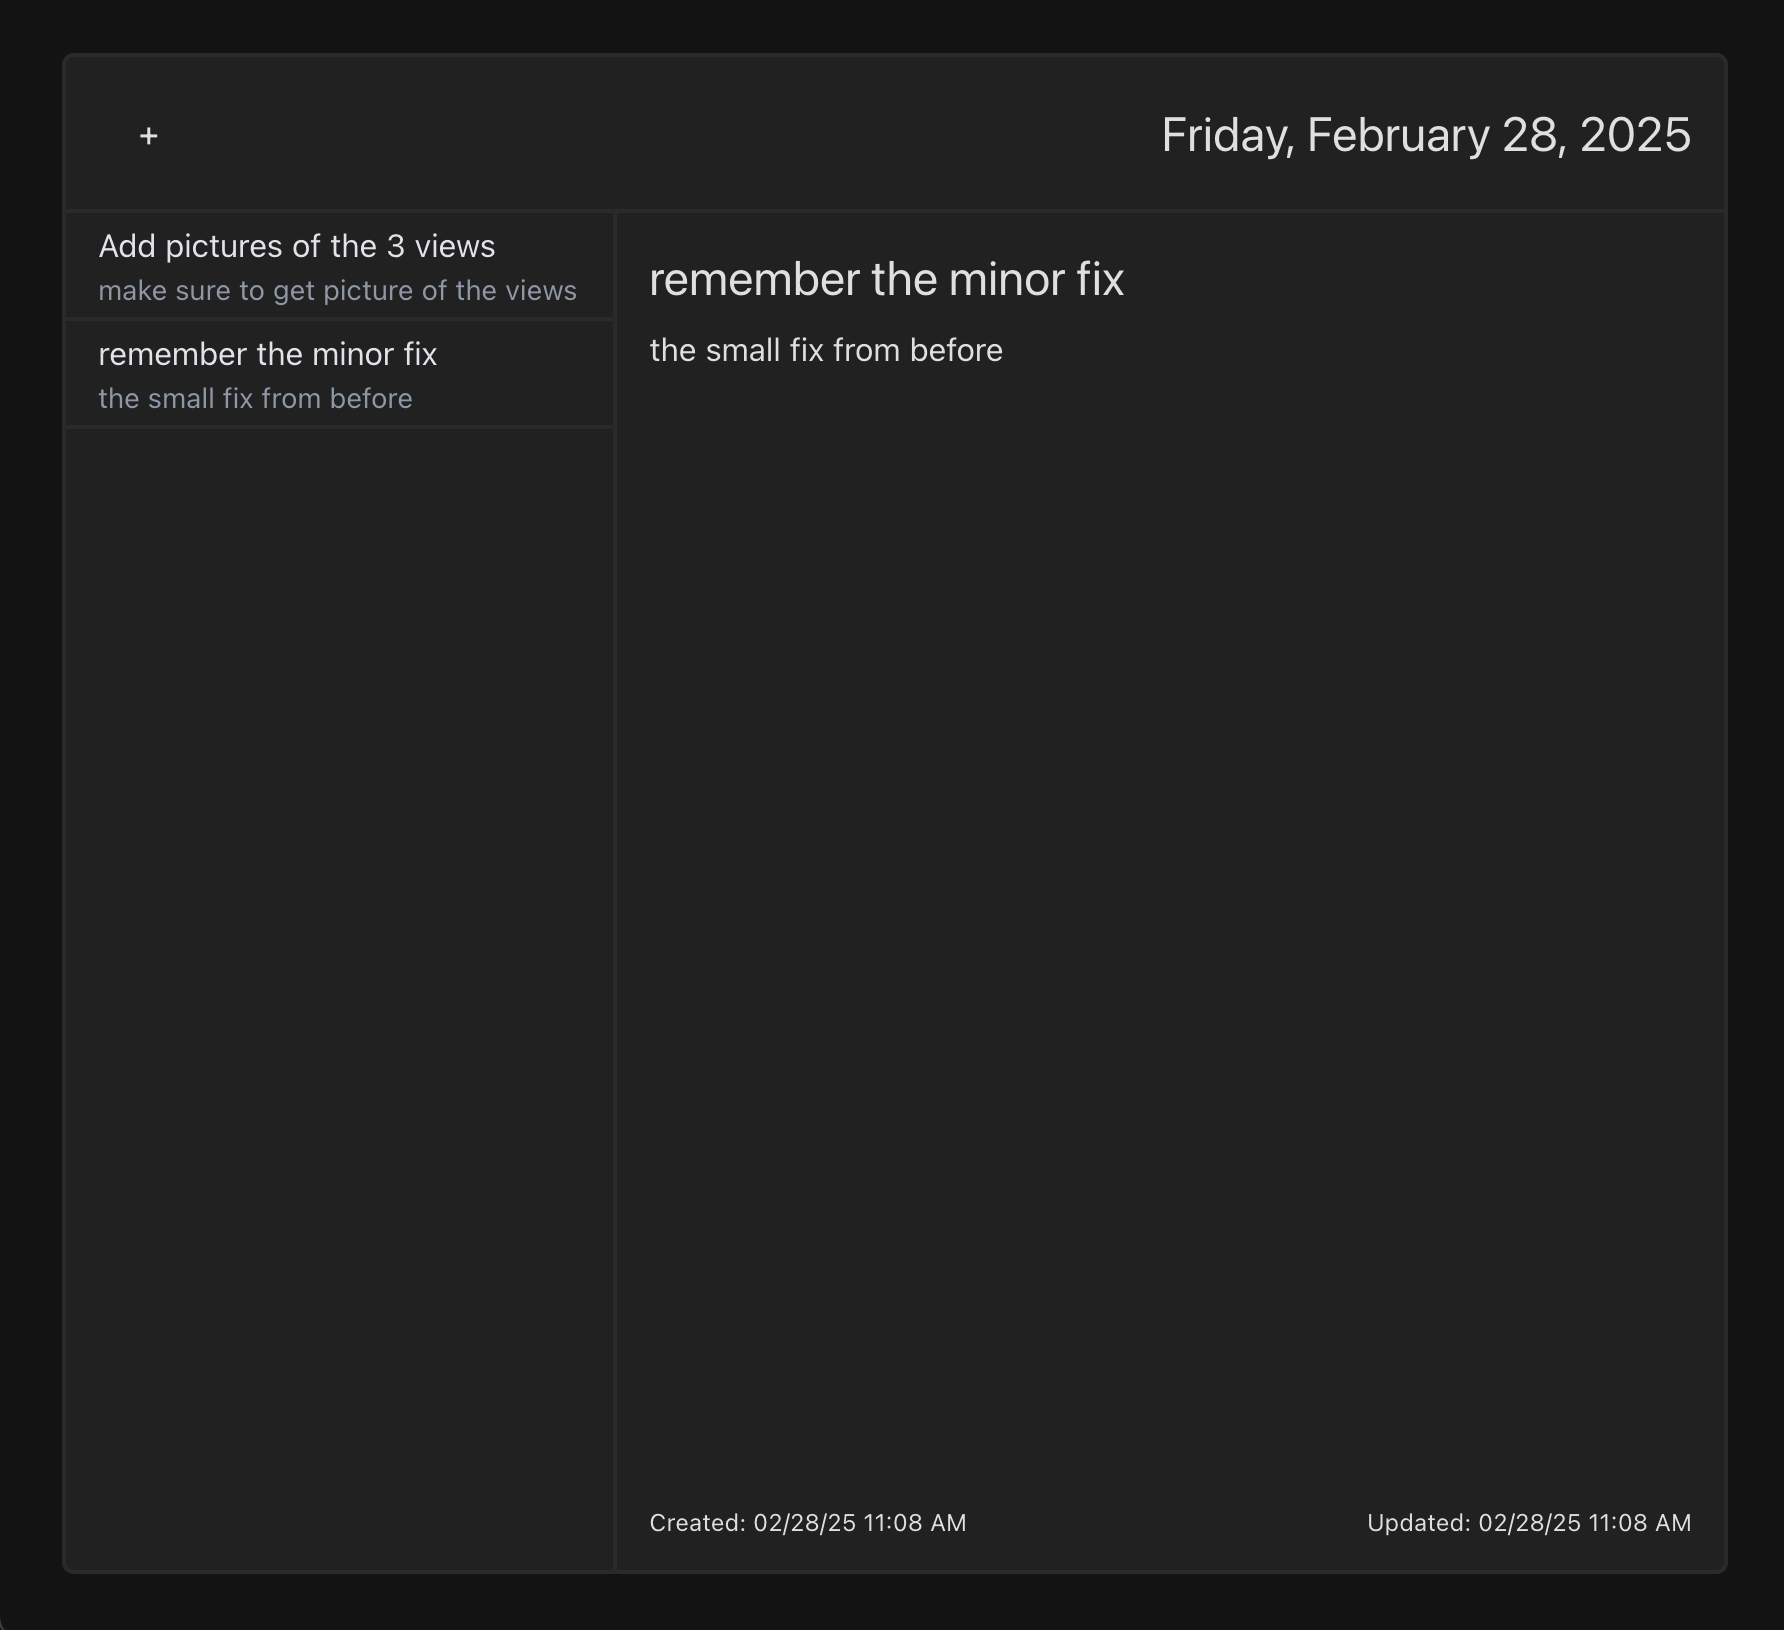
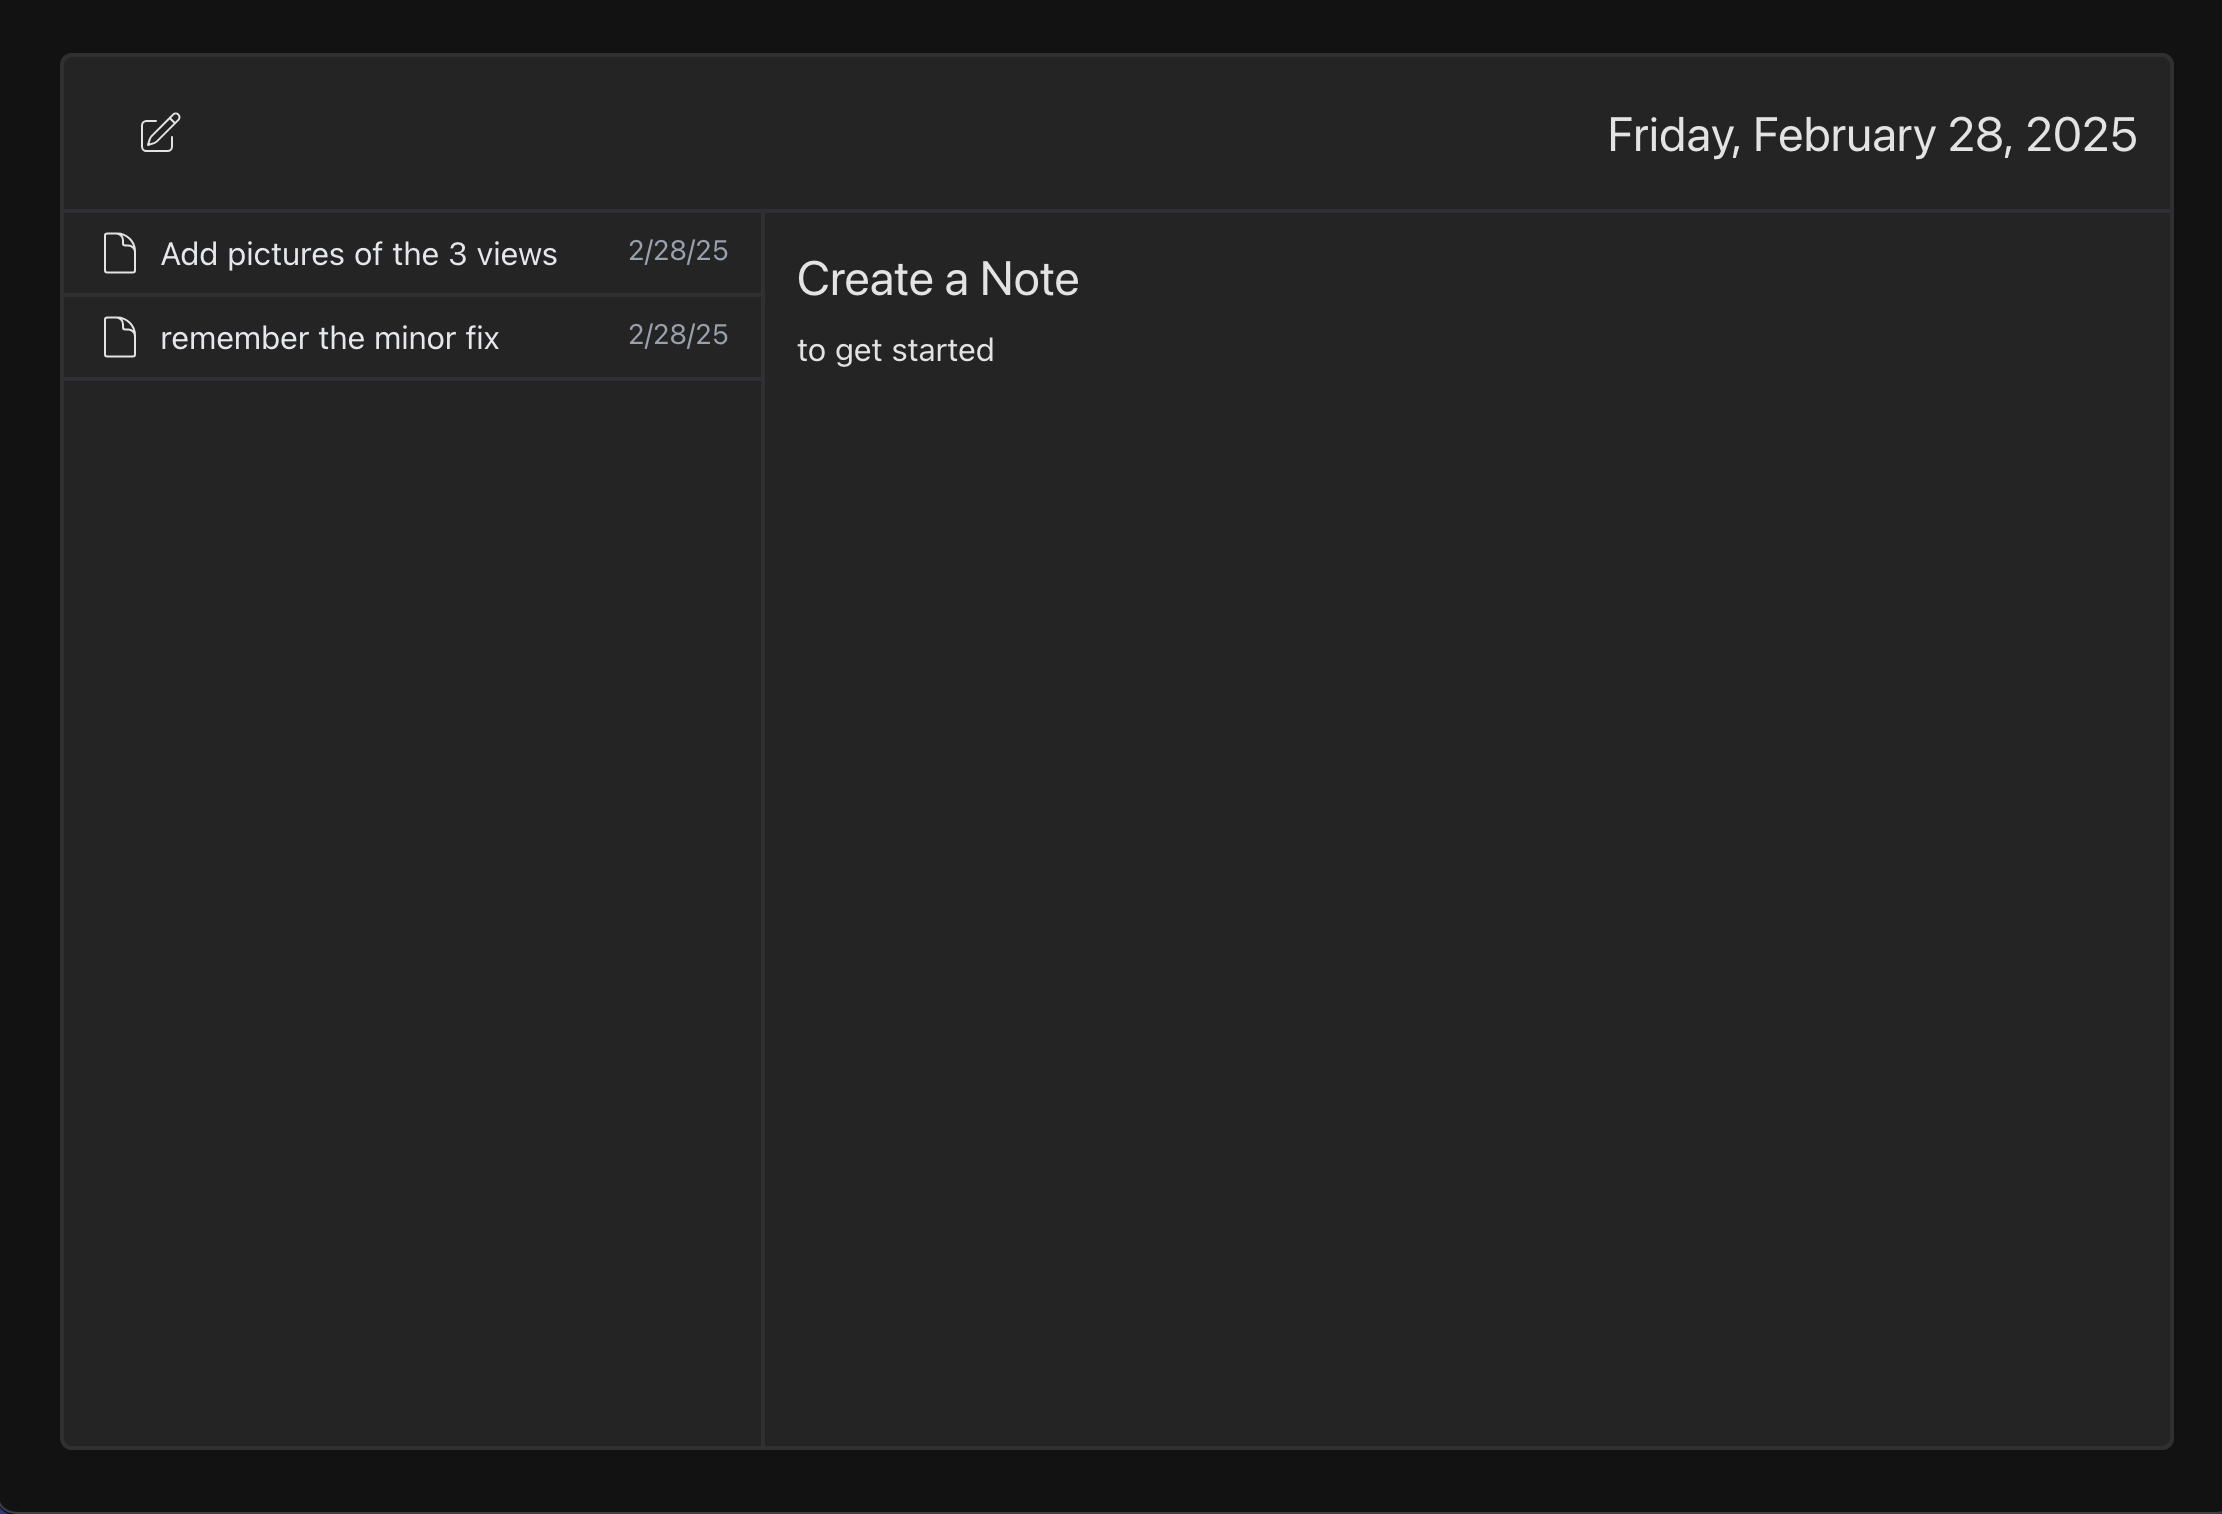
changes to get closer to the video
added icons for each note
replaced + with create note icon
create a new time function
added date to note list

diff --git a/src/components/NotesListPage.tsx b/src/components/NotesListPage.tsx
@@ -5,14 +5,6 @@ import axios from "axios";
 import { toast } from "react-toastify";
 import { ToastContainer } from "react-toastify";
 
-const date = new Date();
-const formattedDate = date.toLocaleString("en-US", {
-  weekday: "long",
-  month: "long",
-  day: "numeric",
-  year: "numeric",
-});
-
 export interface Note {
   createdAt?: string;
   updatedAt?: string;
@@ -27,6 +19,13 @@ export enum ModalMode {
   Create = "Create",
   Edit = "Edit",
   Delete = "Delete",
+}
+
+// eslint-disable-next-line react-refresh/only-export-components
+export enum DateType {
+  FULL_DATE, // Friday, February 28, 2025
+  SHORT_DATE_TIME, // 02/28/25 11:06 AM
+  SHORT_DATE, // 2/28/25
 }
 
 export default function NotesListPage() {
@@ -162,6 +161,36 @@ export default function NotesListPage() {
     setModalMode(action);
   };
 
+  function formatDateTime(dateString: string, dateType: DateType): string {
+    const date = new Date(dateString);
+    switch (dateType) {
+      case DateType.FULL_DATE:
+        return date.toLocaleDateString("en-US", {
+          weekday: "long",
+          year: "numeric",
+          month: "long",
+          day: "numeric",
+        });
+      case DateType.SHORT_DATE_TIME:
+        return `${date.toLocaleDateString("en-US", {
+          month: "2-digit",
+          day: "2-digit",
+          year: "2-digit",
+        })} ${date.toLocaleTimeString("en-US", {
+          hour: "2-digit",
+          minute: "2-digit",
+          hour12: true,
+        })}`;
+      case DateType.SHORT_DATE:
+        return `${date.getMonth() + 1}/${date.getDate()}/${date
+          .getFullYear()
+          .toString()
+          .slice(2)}`;
+      default:
+        throw new Error(`Unsupported date type: ${dateType}`);
+    }
+  }
+
   function Spinner() {
     return (
       <div className="flex items-center justify-center h-full">
@@ -180,12 +209,26 @@ export default function NotesListPage() {
           className="hover:bg-[#1a1a1a]"
           onClick={() => handleModalAction(ModalMode.Create)}
           disabled={isModalOpen}
-
         >
-          +
+          <svg
+            xmlns="http://www.w3.org/2000/svg"
+            fill="none"
+            viewBox="0 0 24 24"
+            strokeWidth={1}
+            stroke="currentColor"
+            className="size-6"
+          >
+            <path
+              strokeLinecap="round"
+              strokeLinejoin="round"
+              d="m16.862 4.487 1.687-1.688a1.875 1.875 0 1 1 2.652 2.652L10.582 16.07a4.5 4.5 0 0 1-1.897 1.13L6 18l.8-2.685a4.5 4.5 0 0 1 1.13-1.897l8.932-8.931Zm0 0L19.5 7.125M18 14v4.75A2.25 2.25 0 0 1 15.75 21H5.25A2.25 2.25 0 0 1 3 18.75V8.25A2.25 2.25 0 0 1 5.25 6H10"
+            />
+          </svg>
         </button>
 
-        <h2 className="md:text-2xl">{formattedDate}</h2>
+        <h2 className="md:text-2xl">
+          {formatDateTime(new Date().toISOString(), DateType.FULL_DATE)}
+        </h2>
       </div>
 
       <div className=" h-full flex flex-col-reverse md:flex-row bg-[#242424] rounded-b-md ">
@@ -198,16 +241,37 @@ export default function NotesListPage() {
             Array.isArray(notes) &&
             notes.map((note: Note) => (
               <div
-                className={`p-1 px-4 border-b-2 border-gray-400/10 border-r-0 text-left  ${
+                className={`p-2 px-4 border-b-2 border-gray-400/10 border-r-0 text-left flex justify-between  ${
                   !isModalOpen &&
                   "hover:pb-6 hover:cursor-pointer hover:border-t-slate-700 hover:bg-[#1d1d1d] "
                 }`}
                 key={note.id}
                 onClick={() => setSelectedNote(note)}
               >
-                <h2 className="text-md text-gray-200">{note.title}</h2>
-                <p className="text-sm text-gray-400 truncate">
-                  {note.description}
+                <div className="flex gap-2">
+                  <svg
+                    xmlns="http://www.w3.org/2000/svg"
+                    fill="none"
+                    viewBox="0 0 24 24"
+                    strokeWidth={1}
+                    stroke="currentColor"
+                    className="size-6"
+                  >
+                    <path
+                      strokeLinecap="round"
+                      strokeLinejoin="round"
+                      d="M19.5 14.25v-2.625a3.375 3.375 0 0 0-3.375-3.375h-1.5A1.125 1.125 0 0 1 13.5 7.125v-1.5a3.375 3.375 0 0 0-3.375-3.375H8.25m2.25 0H5.625c-.621 0-1.125.504-1.125 1.125v17.25c0 .621.504 1.125 1.125 1.125h12.75c.621 0 1.125-.504 1.125-1.125V11.25a9 9 0 0 0-9-9Z"
+                    />
+                  </svg>
+
+                  <h2 className="text-md text-gray-200">{note.title}</h2>
+                </div>
+
+                <p className="text-sm text-gray-400">
+                  {(note.updatedAt &&
+                    formatDateTime(note.updatedAt, DateType.SHORT_DATE)) ||
+                    (note.createdAt &&
+                      formatDateTime(note.createdAt, DateType.SHORT_DATE))}
                 </p>
               </div>
             ))}
@@ -219,6 +283,7 @@ export default function NotesListPage() {
             setIsModalOpen={setIsModalOpen}
             setModalMode={setModalMode}
             selectedNote={selectedNote}
+            formatDateTime={formatDateTime}
           />
         )}
 

diff --git a/src/components/NoteDetailModal.tsx b/src/components/NoteDetailModal.tsx
@@ -1,32 +1,21 @@
-import { ModalMode, Note } from "./NotesListPage";
+import { DateType, ModalMode, Note } from "./NotesListPage";
 
 interface CreateEditNoteModalProps {
   setIsModalOpen: React.Dispatch<React.SetStateAction<boolean>>;
   setModalMode: React.Dispatch<React.SetStateAction<ModalMode>>;
   selectedNote: Note;
   onDelete?: () => void;
+  formatDateTime: (dateString: string, dateType: DateType) => string;
 }
 
 export default function NoteDetailModal({
   setIsModalOpen,
   setModalMode,
   selectedNote,
+  formatDateTime,
 }: CreateEditNoteModalProps) {
-  function formatDateTime(dateString: string): string {
-    const date = new Date(dateString);
-    return `${date.toLocaleDateString("en-US", {
-      month: "2-digit",
-      day: "2-digit",
-      year: "2-digit",
-    })} ${date.toLocaleTimeString("en-US", {
-      hour: "2-digit",
-      minute: "2-digit",
-      hour12: true,
-    })}`;
-  }
-
   return (
-    <div className="w-full md:w-2/3 border-2 border-gray-400/10 h-full border-l-0 border-t-0 text-left p-4 bg-[#242424] rounded-br-md flex flex-col justify-between">
+    <div className="w-full md:w-2/3 border-2 border-gray-400/10 h-full border-l-0 border-t-0 text-left p-4 bg-[#1a1a1a] md:bg-[#242424] rounded-br-md flex flex-col justify-between">
       <div
         onClick={() => {
           setIsModalOpen(true);
@@ -40,8 +29,14 @@ export default function NoteDetailModal({
       <div className="flex justify-between text-xs ">
         {selectedNote.createdAt && selectedNote.updatedAt && (
           <>
-            <h4>Created: {formatDateTime(selectedNote.createdAt)}</h4>
-            <h4>Updated: {formatDateTime(selectedNote.updatedAt)}</h4>
+            <h4>
+              Created:{" "}
+              {formatDateTime(selectedNote.createdAt, DateType.SHORT_DATE_TIME)}
+            </h4>
+            <h4>
+              Updated:{" "}
+              {formatDateTime(selectedNote.updatedAt, DateType.SHORT_DATE_TIME)}
+            </h4>
           </>
         )}
       </div>

diff --git a/src/index.css b/src/index.css
@@ -42,9 +42,9 @@ button {
   cursor: pointer;
   transition: border-color 0.25s;
 }
-/* button:hover {
+button:hover {
   border-color: #334155;
-} */
+}
 button:focus,
 button:focus-visible {
   outline: 4px auto -webkit-focus-ring-color;
